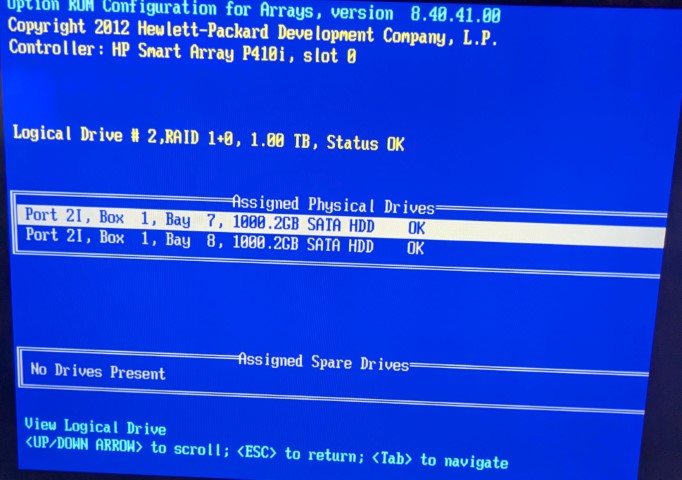
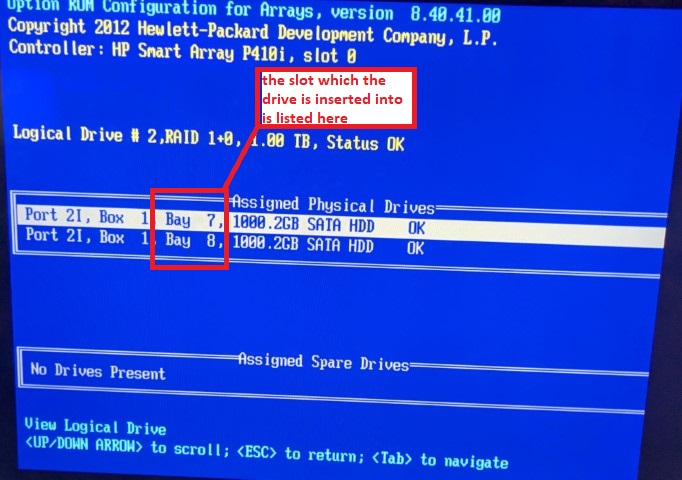
nightly

Changed region(s): [[0.2155, 0.0938, 0.6158, 0.5625], [0.5543, 0.0625, 0.585, 0.0938]]

diff --git a/firstConfig.md b/firstConfig.md
@@ -1,80 +1,43 @@
-# Homelab on HP DL380 G7 and ESXI
+# HP DL380 G7 - configuring ESXI 
 
-As part of decommissioning my old homelab, I have rebuilt and documented most of the major components here. 
+This guide runs through the steps needed to install ESXI on an HP DL380 G7 rack server
 
-### Caveat
-The newest version of ESXI that runs on the server used in this build is 6.0.0 - This is an old version, and is unsupported. 6.5.0 will install, but crashes as soon as it tries to write to the filesystem. 
-
-The license for 6.0.0 is free, but I cannot find a way to obtain license keys or installation ISOs any longer. If you do not already have them, then will need to either use a different server compatible with ESXI 7+, or a different hypervisor like proxmox
-
-
-### Hardware utilized in this build
-- HP DL380 G7 2u rack server
-- A few ethernet cords (I count 3, but 4 couldn't hurt)
-- A PC with ethernet port (for configuration of hypervisor / VMs)
-- Archaic desktop (FreeNAS host via ISCSI) (not needed)
+Please note the following caveats:
+- *Version 6.0.0 of ESXI is the newest that will work on this server- this is an old version, and is unsupported. 6.5.0 will install, but crashes as soon as it tries to write to the filesystem*
+- *The license for 6.0.0 is free, but I cannot find a way to obtain license keys or installation ISOs any longer. If you do not already have them, then you will need to either use a different hypervisor like proxmox, or a different server compatible with ESXI 7+*
 
 
-## Services overview
-### Hypervisor & guest VMs
-HP Rack server has the ESXI hypervisor installed. ESXI hosts 2 Virtual Machines -  PFSense and Ubuntu Server
 
-1. PFSense provides a variety of standard network services, as well as a DNS blackhole for adblocking, and custom DNS / DHCP configuration. 
+I highly recommend looking at the [Simple Network Explanations](simpleNetworks.md) - this will explain the high level network architecture used for a few different situations. 
 
-2. The Ubuntu VM directly runs a Wireguard instance, providing VPN access, and hosting other services via docker
+The 'Intro Network' is advised at first, I recommend you take a look at it
 
-### Docker containers
-The Ubuntu VM does not run any other services directly - instead, it is a docker host running the following containers:
-1. Traefik
-    - Reverse proxy & load balancer
-    - Manage free SSL certs to encrypt traffic for other services
-2. Minecraft server
-    - Minecraft server container
-3. Bitwarden
-    - Self hosted password manager
-4. Nextcloud
-    - Self hosted storage cloud
-5. Calibre web
-    - Self hosted Ebook library
-
-Additionally, I had set up a very old desktop as a NAS.
-
-This is really not necessary - the server I had was equipped with 8 SATA slots and hardware RAID, but will be documented for my reference.
-
-NAS details:
-- OS: TrueNAS 
-- Filesystem: ZFS (Software RAID 1)
-- Access via ISCSI
-
-
-## Getting Started
-
-I highly recommend looking at the [Simple Network Explanations](simpleNetworks.md) - this will explain the high level network architecture used for a few different situations. The 'Intro Network' is recommended at first, so make sure you take a look at it
-
-With that said, let's get to the build steps:
-
-## Server Setup
-### Materials
+## Materials
 Initial set up requires the following:
-* Server and VGA capable monitor plugged into power
+* Server and VGA monitor plugged into power
 * VGA Cable plugged into monitor and server
 * Keyboard plugged into server
 * At least one 2.5" SATA disk installed into caddy / slot
-    * Mount your SATA disk into a drive caddy
-    * insert it fully into slot
-    * best to attach all disks you plan to use at first, that way you do not need to get into the RAID menu when you add them later
-* ESXI 6.0 HP custom image installed on a bootable USB (See Rufus and Ventoy guides) 
+    1. Remove existing partitions from the drive
+    1. Mount your SATA disk into a drive caddy
+    1. Press the red button on the caddy to release the locking lever
+    2. Insert the caddy fully into the drive bay
+    3. Push the locking lever back into the caddy to lock the caddy to the drive bay.
+    1. you should see status LEDs visible on the right side of the caddy 
+    3. It's best to follow steps 1-6 for all disks you plan to use - that way you do not need to get into the RAID menu when you add them later
+* ESXI 6.0.0 HP custom image installed on a bootable USB (See Rufus and Ventoy guides) 
 * Bootable USB inserted into USB slot - see [Rufus](rufus.md) and [Ventoy](ventoy.md) guides
-* VMWare account & ESXI license (free)
+* VMWare account & ESXI license (free, see caveats at the top of this guide)
 * Copy of PFSense 2.6.0 and Ubuntu server 22.04 disk images (.ISO) on your computer
 * an ethernet cable ready for use
 * no ethernet cables plugged into server
-* an open port on your home network (or an unmanaged switch to add more ports)
+* an open port on your home network
 
+# **Instructions**
 
-
-### Initialize disk(s) in RAID menu
+## **Initialize disk(s) in RAID menu**
 With everything in the Server Setup section above ready, we are ready to get started initializing our disk(s) with the RAID controller. This is required for all disks (even those not in an array with other disks)
+- To get everything successfully working, you ***MUST*** enter the RAID controller menu before installing / trying to boot a hypervisor.
 
 - RAID (Redundant Array of Inexpensive Disks) is a set of storage technologies that allow multiple disks to be used in tandem. As a reminder, here are a few common RAID modes:
     * 0 : 'Striped' - treats disks in the array as one big drive. No redundancy. This RAID controller calls everything RAID 0, even standalone disks
@@ -83,69 +46,86 @@ With everything in the Server Setup section above ready, we are ready to get sta
     * 5 / 50 - cool modes utilizing the XOR function to create parity drives able to recover any other drive - this server's RAID controller requires a license to set those up
 
 
-- To get everything successfully working, you ***MUST*** enter the RAID controller menu before installing / trying to boot a hypervisor.
+- **How to get to the RAID menu**
 
-- The RAID menu is not hard to get to if you know the trick, but there is a narrow window when you can enter it:
+    The RAID menu is not hard to get to if you know how, but  ***there is only a narrow window when you can enter the menu***
+    1. Hold power button for about a second to turn the power on, and after a while you will be presented with a boot screen 
+    2. Once you see the F9 and F11 options, **start pressing F8** - this is the ***only*** chance you have to enter the RAID menu. 
+    
+        ![press f8 here](screenshots/firstConfig/proLiantInitialBoot.jpg)
 
-    - **How to get to the RAID menu**
-        1. Turn server on. Hold power button for about a second, and after a little while you will be presented with the Boot Screen 
-        2. Once you see the F9 and F11 options, **start pressing F8** - this is the only chance you have to enter the RAID menu. 
+        You can stop pressing F8 once the screen goes black 
+
+    3. The ILO menu will load. Press DOWN, ENTER and ENTER to exit that menu (screenshots 
+    [1](https://github.com/mynah22/Homelab-Guides/raw/main/screenshots/firstConfig/proliantILO1.jpg)
+    [2](https://github.com/mynah22/Homelab-Guides/raw/main/screenshots/firstConfig/proliantILO2.jpg)
+    [3](https://github.com/mynah22/Homelab-Guides/raw/main/screenshots/firstConfig/proliantILO3.jpg) )
+    4. *Immediately start pressing F8* -  you must press F8 while the RAID controller loads:
+
+        ![raid controller loading](https://github.com/mynah22/Homelab-Guides/raw/main/screenshots/firstConfig/proliantRaidController2.jpg) 
+
+- **RAID main menu**
+
+    [The RAID menu](https://github.com/mynah22/Homelab-Guides/raw/main/screenshots/firstConfig/proliantRaidDelete1.jpg) you just entered
+    is used to tell the raid controller what to do with attached drives
+    
+    We will define what physical drives make up the 'logical drives' (RAID arrays that the hypervisor will see as a single disk). 
+    
+    Be prepared to lose all data on a drive if you change it's RAID configuration 
+    
+- **Deleting logical drives in the RAID menu**
+
+    The first order of business is to delete ALL logical drives. do the following until you no longer see drives in the deletion menu:
+    1. Use UP/DOWN to navigate to 'Delete Logical Drive', then ENTER to enter the submenu 
+    2. F8 to delete a drive, then F3 to confirm
+    (screenshots [1](https://github.com/mynah22/Homelab-Guides/raw/main/screenshots/firstConfig/proliantRaidDelete2.jpg)
+    [2](https://github.com/mynah22/Homelab-Guides/raw/main/screenshots/firstConfig/proliantRaidDelete3.jpg) 
+    [3](https://github.com/mynah22/Homelab-Guides/raw/main/screenshots/firstConfig/proliantRaidDelete5.jpg) 
+    [4](https://github.com/mynah22/Homelab-Guides/raw/main/screenshots/firstConfig/proliantRaidDelete4.jpg) )
+
+    3. Keep going until you [run out](https://github.com/mynah22/Homelab-Guides/raw/main/screenshots/firstConfig/proliantRaidDelete6.jpg)
+
+    Now we must create logical drives so the controller properly maps physical disks to RAID arrays:
+
+- **Creating logical drives in the RAID menu**
+
+    To get started, enter the 'Create Logical Drive' submenu ([screenshot](https://github.com/mynah22/Homelab-Guides/raw/main/screenshots/firstConfig/proliantRaidCreate1.jpg))
+
+    You will configure one array at at time:
+
+    1. Use TAB, ENTER, SPACE, and UP/DOWN to configure the logical disks as needed. Here are some examples
+        - Single disk ([screenshot](https://github.com/mynah22/Homelab-Guides/raw/main/screenshots/firstConfig/proliantRaidCreate3.jpg))
+        - RAID 1 array (two disks mirrored - this controller calls that RAID 1 + 0 ) ([screenshot](https://github.com/mynah22/Homelab-Guides/raw/main/screenshots/firstConfig/proliantRaidCreate5.jpg))
+    2. Press ENTER when you are done with the array and you will see a confirmation screen. Press F8 to save (Screenshots: RAID [1](https://github.com/mynah22/Homelab-Guides/raw/main/screenshots/firstConfig/proliantRaidCreate4.jpg) RAID [1+0](https://github.com/mynah22/Homelab-Guides/raw/main/screenshots/firstConfig/proliantRaidCreate6.jpg))
+    3. Repeat until you have assigned all disks to a logical drive
+
+ 
+- **Take a second to look at your logical drive numbers**
+
+    It's a good idea to double check what logical drive number each array was assigned
+    1. in [main RAID menu](https://github.com/mynah22/Homelab-Guides/raw/main/screenshots/firstConfig/proliantRaidDelete1.jpg), highlight 'View logical drives', hit ENTER
+    2. you will be presented with a [view](https://github.com/mynah22/Homelab-Guides/raw/main/screenshots/firstConfig/proliantRaidCreate12.jpg) of your logical drives - write this information down
+    3. if you hit ENTER while highlighting an array you will see [a screen](https://github.com/mynah22/Homelab-Guides/raw/main/screenshots/firstConfig/proliantRaidCreate13.jpg) displaying the physical slots each disk is inserted into. Write this info down or label it on the disk caddies
+    4. ESC to return to the main RAID menu
+
+
+- **Setting a boot disk**
+
+    Last thing in the RAID menu - setting a boot drive
+    
+    1. in [main RAID menu]( https://github.com/mynah22/Homelab-Guides/raw/main/screenshots/firstConfig/proliantRaidCreate7.jpg), highlight 'Select Boot Volume', hit ENTER
+    2. on the [next screen](https://github.com/mynah22/Homelab-Guides/raw/main/screenshots/firstConfig/proliantRaidCreate8.jpg), highlight 'Direct Attached Storage', hit ENTER
+    3. then, on [this screen](https://github.com/mynah22/Homelab-Guides/raw/main/screenshots/firstConfig/proliantRaidCreate9.jpg), highlight the array you would like to install your hypervisor onto, hit ENTER. Then F8 on the [confirmation screen](https://github.com/mynah22/Homelab-Guides/raw/main/screenshots/firstConfig/proliantRaidCreate10.jpg).
+        - *note- as you can see from the screenshot, you are only given the logical drive number, not any details about it's size or physical slot. This is why it is a good idea to write that info down from the 'View Logical Drives' submenu*
+    4. once you are on this [final boot select screen](https://github.com/mynah22/Homelab-Guides/raw/main/screenshots/firstConfig/proliantRaidCreate11.jpg), you are ready to install a hypervisor. take a second to pause before you hit F8 to reboot and make sure you have the following things ready:
+        - No ethernet cables plugged into server
+        - Bootable ESXI installation USB inserted into server
         
-            ![press f8 here](screenshots/firstConfig/proLiantInitialBoot.jpg)
+    5. Press F8 if you are ready to exit the RAID menu - otherwise press ESCAPE to go back to the main RAID menu (good idea to double check / write your config down). You can press ESCAPE at the [main RAID menu](https://github.com/mynah22/Homelab-Guides/raw/main/screenshots/firstConfig/proliantRaidDelete1.jpg) when you are ready to install the hypervisor
+    6. *you do not need to come back to the RAID menu again unless you are adding / changing disk configuration* 
 
-            You can stop pressing F8 once the screen goes black 
-
-        3. The ILO menu will load. Press DOWN, ENTER and ENTER to exit that menu (screenshots 
-        [1](https://github.com/mynah22/Homelab-Guides/raw/main/screenshots/firstConfig/proliantILO1.jpg)
-        [2](https://github.com/mynah22/Homelab-Guides/raw/main/screenshots/firstConfig/proliantILO2.jpg)
-        [3](https://github.com/mynah22/Homelab-Guides/raw/main/screenshots/firstConfig/proliantILO3.jpg) )
-        1. **Immediately start pressing F8** -  you must press F8 while the RAID controller loads:
-
-            ![raid controller loading](https://github.com/mynah22/Homelab-Guides/raw/main/screenshots/firstConfig/proliantRaidController2.jpg) 
-    - **Initializing disks**
-        - [The RAID menu](https://github.com/mynah22/Homelab-Guides/raw/main/screenshots/firstConfig/proliantRaidDelete1.jpg) you just entered
-          is used to tell the raid controller what to do with attached drives
-          
-          We will define 'logical drives' (RAID arrays that the controller presents as single disks) and associated physical disks. 
-          
-          Be prepared to lose all data on a drive if you change it's RAID configuration 
-
-        - The first order of business is to delete ALL logical drives. do the following until you no longer see drives in the deletion menu:
-            
-            **Deleting logical drives in the RAID menu**
-
-            1. start from the main [RAID menu](https://github.com/mynah22/Homelab-Guides/raw/main/screenshots/firstConfig/proliantRaidDelete1.jpg)
-            1. DOWN to navigate to 'Delete Logical Drive', then ENTER to enter the submenu 
-            2. F8 to delete a drive, then F3 to confirm
-            (screenshots [1](https://github.com/mynah22/Homelab-Guides/raw/main/screenshots/firstConfig/proliantRaidDelete2.jpg)
-            [2](https://github.com/mynah22/Homelab-Guides/raw/main/screenshots/firstConfig/proliantRaidDelete3.jpg) 
-            [3](https://github.com/mynah22/Homelab-Guides/raw/main/screenshots/firstConfig/proliantRaidDelete5.jpg) 
-            [4](https://github.com/mynah22/Homelab-Guides/raw/main/screenshots/firstConfig/proliantRaidDelete4.jpg) )
-
-            3. repeat 1-3 until you have no logical drives left to delete ([screenshot](https://github.com/mynah22/Homelab-Guides/raw/main/screenshots/firstConfig/proliantRaidDelete6.jpg))
-
-        - Now we must create logical drives so the controller properly maps physical disks to RAID arrays:
-
-            **Creating logical drives in the RAID menu**
-            To get started, enter the 'Create Logical Drive' submenu([screenshot](https://github.com/mynah22/Homelab-Guides/raw/main/screenshots/firstConfig/proliantRaidCreate1.jpg))
-
-            You will configure one array at at time:
-
-            1. Use TAB, ENTER, SPACE, and UP/DOWN to configure the logical disks as needed. Here are some examples
-                - Single disk ([screenshot](https://github.com/mynah22/Homelab-Guides/raw/main/screenshots/firstConfig/proliantRaidCreate3.jpg))
-                - RAID 1 array (two disks mirrored) ([screenshot](https://github.com/mynah22/Homelab-Guides/raw/main/screenshots/firstConfig/proliantRaidCreate5.jpg))
-            2. Press ENTER when you are done with the array and you will see a confirmation screen. Press F8 to save (Screenshots: RAID [1](https://github.com/mynah22/Homelab-Guides/raw/main/screenshots/firstConfig/proliantRaidCreate4.jpg) RAID [1+0](https://github.com/mynah22/Homelab-Guides/raw/main/screenshots/firstConfig/proliantRaidCreate6.jpg))
-            3.
-            
-
-        - Set logical device as boot
-        - F8 to proceed to boot. USB is of a higher priority than hard drives, so you should see your usb stick load
-        - proceed with installation of your hypervisor / os of choice. We are using ESXI 6.0 in this example below
-        - you DO NOT have to take these steps when installing a new hypervisor to a disk, just when you add / re-arrange physical disks to the server.
-        - exit the raid menu, and the server will start attempting to boot from all devices
-
-### Install hypervisor
-- With a USB stick installed, the USB stick will take boot precedence, and you should see the ESXI 6.0.0 installer boot
+## **Installing hypervisor (ESXI)**
+- Boot should continue 
 - Proceed with steps in the ESXI Installation Guide - it's pretty simple:
     * Select the disk you would like to install to
     * Set a password

diff --git a/firstConfigIndex.md b/firstConfigIndex.md
@@ -1,0 +1,62 @@
+# Homelab on HP DL380 G7 and ESXI
+
+As part of decommissioning my old homelab, I have rebuilt and documented most of the major components here. 
+
+### Caveat
+The newest version of ESXI that runs on the server used in this build is 6.0.0 - This is an old version, and is unsupported. 6.5.0 will install, but crashes as soon as it tries to write to the filesystem. 
+
+The license for 6.0.0 is free, but I cannot find a way to obtain license keys or installation ISOs any longer. If you do not already have them, then will need to either use a different server compatible with ESXI 7+, or a different hypervisor like proxmox
+### Materials
+Initial set up requires the following:
+* Server and VGA capable monitor plugged into power
+* VGA Cable plugged into monitor and server
+* Keyboard plugged into server
+* At least one 2.5" SATA disk installed into caddy / slot
+    * Mount your SATA disk into a drive caddy
+    * insert it fully into slot
+    * best to attach all disks you plan to use at first, that way you do not need to get into the RAID menu when you add them later
+* ESXI 6.0 HP custom image installed on a bootable USB (See Rufus and Ventoy guides) 
+* Bootable USB inserted into USB slot - see [Rufus](rufus.md) and [Ventoy](ventoy.md) guides
+* VMWare account & ESXI license (free)
+* Copy of PFSense 2.6.0 and Ubuntu server 22.04 disk images (.ISO) on your computer
+* an ethernet cable ready for use
+* no ethernet cables plugged into server
+* an open port on your home network (or an unmanaged switch to add more ports)
+
+### Hardware utilized in this build
+- HP DL380 G7 2u rack server
+- A few ethernet cords (I count 3, but 4 couldn't hurt)
+- A PC with ethernet port (for configuration of hypervisor / VMs)
+- Archaic desktop (FreeNAS host via ISCSI) (not needed)
+
+
+## Services overview
+### Hypervisor & guest VMs
+HP Rack server has the ESXI hypervisor installed. ESXI hosts 2 Virtual Machines -  PFSense and Ubuntu Server
+
+1. PFSense provides a variety of standard network services, as well as a DNS blackhole for adblocking, and custom DNS / DHCP configuration. 
+
+2. The Ubuntu VM directly runs a Wireguard instance, providing VPN access, and hosting other services via docker
+
+### Docker containers
+The Ubuntu VM does not run any other services directly - instead, it is a docker host running the following containers:
+1. Traefik
+    - Reverse proxy & load balancer
+    - Manage free SSL certs to encrypt traffic for other services
+2. Minecraft server
+    - Minecraft server container
+3. Bitwarden
+    - Self hosted password manager
+4. Nextcloud
+    - Self hosted storage cloud
+5. Calibre web
+    - Self hosted Ebook library
+
+Additionally, I had set up a very old desktop as a NAS.
+
+This is really not necessary - the server I had was equipped with 8 SATA slots and hardware RAID, but will be documented for my reference.
+
+NAS details:
+- OS: TrueNAS 
+- Filesystem: ZFS (Software RAID 1)
+- Access via ISCSI
